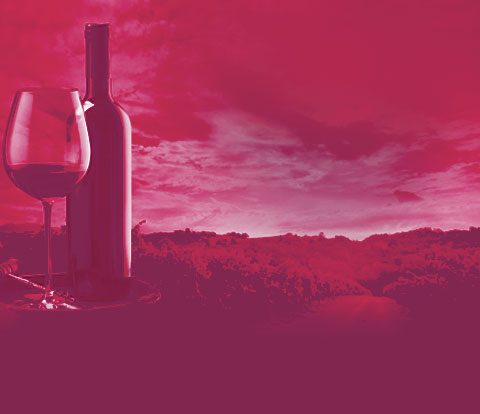
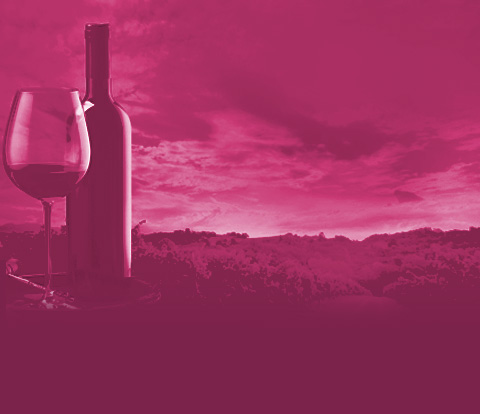
correcao de cor bg hero

diff --git a/css/queries.css b/css/queries.css
@@ -19,7 +19,7 @@
 	#logo-wine-white {display:block;}
 	#logo-wine{display:none;}
 	.ignite-cta {background-color:#7c224a; margin-top:90px;}
-	#hero, .hero {padding:10px 0 20px 0px; background-color:#7c224a;}
+	#hero, .hero {padding:10px 0 20px 0px; background-color:#83244e;}
 	#hero .inner {padding-top:60px;}
 	
 	.learn-more-btn { 
